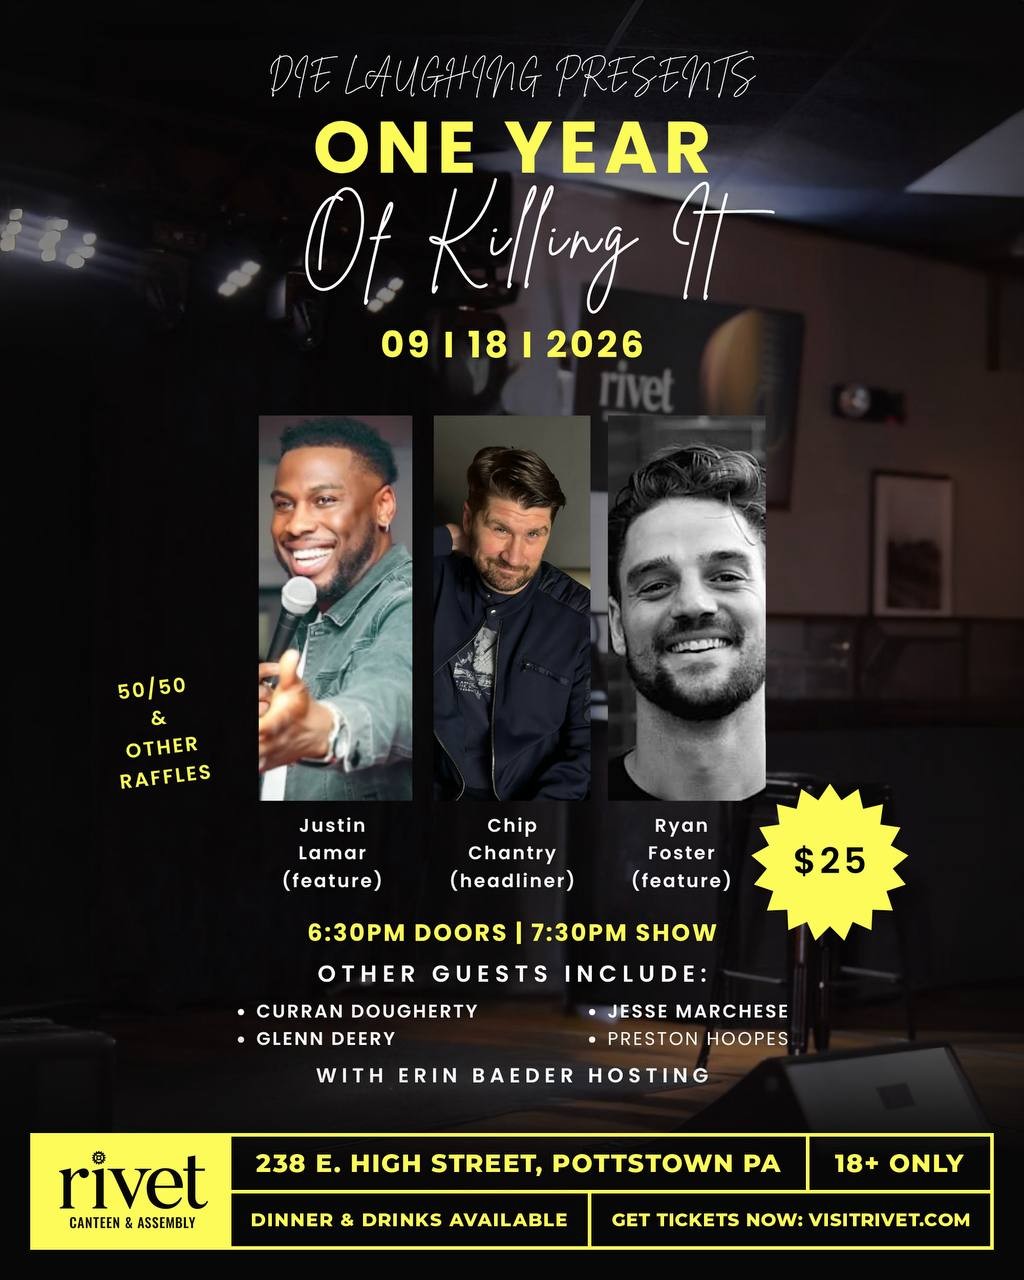
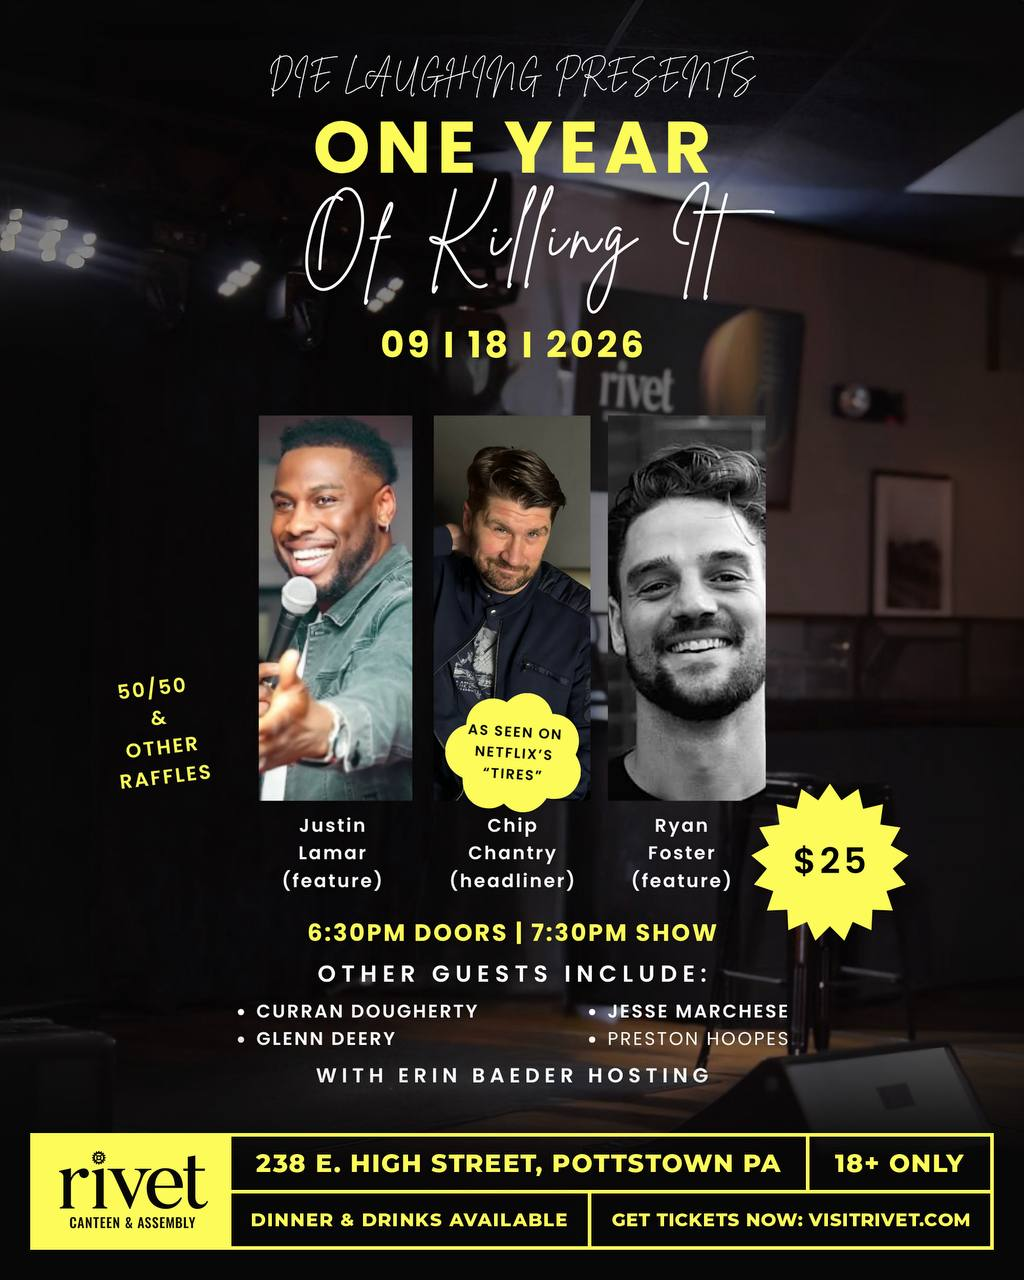
Update Sep 18/19 flyers; add Oct-Dec 2026 shows
- Refresh One Year Of Killing It (9/18) and Still Killing It (9/19) flyers
- Add Barely Breathing (10/16), Party Night (10/31),
  Thanksgiving Eve Open Mic (11/25), and Sleighin' It (12/18) with ticket links

Claude-Session: https://claude.ai/code/session_01T86ai1syM6TYP8s9Tn2fkk

Changed region(s): [[0.4375, 0.5312, 0.5938, 0.6562]]

diff --git a/home.html b/home.html
@@ -664,7 +664,7 @@
           <img
             src="flyer-one-year-killing-it.jpg"
             alt="Die Laughing Presents: One Year Of Killing It - September 18, 2026 at Rivet, Pottstown PA"
-            width="1200" height="1500"
+            width="1024" height="1280"
             class="w-full max-w-md mx-auto h-auto rounded-2xl shadow-2xl cursor-pointer hover:scale-105 transition ring-2 ring-white/10"
             loading="lazy" decoding="async"
             onclick="openModal(this.src, 'One Year Of Killing It - September 18, 2026')">
@@ -684,7 +684,7 @@
           <img
             src="flyer-still-killing-it.jpg"
             alt="Die Laughing's Still Killing It! - September 19, 2026 at Hotel Fiesole, Collegeville PA"
-            width="1200" height="1600"
+            width="960" height="1280"
             class="w-full max-w-md mx-auto h-auto rounded-2xl shadow-2xl cursor-pointer hover:scale-105 transition ring-2 ring-white/10"
             loading="lazy" decoding="async"
             onclick="openModal(this.src, 'Still Killing It! - September 19, 2026')">
@@ -692,6 +692,26 @@
              target="_blank" rel="noopener noreferrer"
              class="tap mt-6 inline-block bg-gradient-to-r from-orange-500 to-pink-500 hover:from-orange-400 hover:to-pink-400 text-white font-bold py-4 px-10 rounded-full text-base transition focus-ring shadow-lg btn-glow">
             Get Tickets • Sep 19th
+          </a>
+        </div>
+      </div>
+    </div>
+
+    <!-- OCT 16TH SHOW - Barely Breathing (Sarcoidosis benefit) at Rivet, Pottstown -->
+    <div class="swiper-slide show-card glass rounded-2xl p-6 sm:p-8 card-hover" data-show-date="2026-10-16">
+      <div class="flex justify-center">
+        <div class="text-center">
+          <img
+            src="flyer-barely-breathing-oct16.jpg"
+            alt="Die Laughing Presents: Barely Breathing - October 16, 2026 at Rivet, Pottstown PA"
+            width="1024" height="1280"
+            class="w-full max-w-md mx-auto h-auto rounded-2xl shadow-2xl cursor-pointer hover:scale-105 transition ring-2 ring-white/10"
+            loading="lazy" decoding="async"
+            onclick="openModal(this.src, 'Barely Breathing - October 16, 2026')">
+          <a href="https://www.eventbrite.com/e/1992928757562?aff=oddtdtcreator"
+             target="_blank" rel="noopener noreferrer"
+             class="tap mt-6 inline-block bg-gradient-to-r from-orange-500 to-pink-500 hover:from-orange-400 hover:to-pink-400 text-white font-bold py-4 px-10 rounded-full text-base transition focus-ring shadow-lg btn-glow">
+            Get Tickets • Oct 16th
           </a>
         </div>
       </div>
@@ -712,6 +732,66 @@
              target="_blank" rel="noopener noreferrer"
              class="tap mt-6 inline-block bg-gradient-to-r from-orange-500 to-pink-500 hover:from-orange-400 hover:to-pink-400 text-white font-bold py-4 px-10 rounded-full text-base transition focus-ring shadow-lg btn-glow">
             Get Tickets • Oct 17th
+          </a>
+        </div>
+      </div>
+    </div>
+
+    <!-- OCT 31ST SHOW - Die Laughing Party Night (Halloween) at Rivet, Pottstown -->
+    <div class="swiper-slide show-card glass rounded-2xl p-6 sm:p-8 card-hover" data-show-date="2026-10-31">
+      <div class="flex justify-center">
+        <div class="text-center">
+          <img
+            src="flyer-party-night-oct31.jpg"
+            alt="Die Laughing Party Night - Halloween, October 31, 2026 at Rivet, Pottstown PA"
+            width="1024" height="1280"
+            class="w-full max-w-md mx-auto h-auto rounded-2xl shadow-2xl cursor-pointer hover:scale-105 transition ring-2 ring-white/10"
+            loading="lazy" decoding="async"
+            onclick="openModal(this.src, 'Die Laughing Party Night - October 31, 2026')">
+          <a href="https://www.eventbrite.com/e/1995193025047?aff=oddtdtcreator"
+             target="_blank" rel="noopener noreferrer"
+             class="tap mt-6 inline-block bg-gradient-to-r from-orange-500 to-pink-500 hover:from-orange-400 hover:to-pink-400 text-white font-bold py-4 px-10 rounded-full text-base transition focus-ring shadow-lg btn-glow">
+            Get Tickets • Oct 31st
+          </a>
+        </div>
+      </div>
+    </div>
+
+    <!-- NOV 25TH SHOW - Thanksgiving Eve Open Mic at Rivet, Pottstown -->
+    <div class="swiper-slide show-card glass rounded-2xl p-6 sm:p-8 card-hover" data-show-date="2026-11-25">
+      <div class="flex justify-center">
+        <div class="text-center">
+          <img
+            src="flyer-thanksgiving-eve-open-mic-nov25.jpg"
+            alt="Die Laughing's Thanksgiving Eve Open Mic - November 25, 2026 at Rivet, Pottstown PA"
+            width="1024" height="1280"
+            class="w-full max-w-md mx-auto h-auto rounded-2xl shadow-2xl cursor-pointer hover:scale-105 transition ring-2 ring-white/10"
+            loading="lazy" decoding="async"
+            onclick="openModal(this.src, 'Thanksgiving Eve Open Mic - November 25, 2026')">
+          <a href="https://www.eventbrite.com/e/1995196342971?aff=oddtdtcreator"
+             target="_blank" rel="noopener noreferrer"
+             class="tap mt-6 inline-block bg-gradient-to-r from-orange-500 to-pink-500 hover:from-orange-400 hover:to-pink-400 text-white font-bold py-4 px-10 rounded-full text-base transition focus-ring shadow-lg btn-glow">
+            Get Tickets • Nov 25th
+          </a>
+        </div>
+      </div>
+    </div>
+
+    <!-- DEC 18TH SHOW - Die Laughing: Sleighin' It at Rivet, Pottstown -->
+    <div class="swiper-slide show-card glass rounded-2xl p-6 sm:p-8 card-hover" data-show-date="2026-12-18">
+      <div class="flex justify-center">
+        <div class="text-center">
+          <img
+            src="flyer-sleighin-it-dec18.jpg"
+            alt="Die Laughing: Sleighin' It - December 18, 2026 at Rivet, Pottstown PA"
+            width="1024" height="1280"
+            class="w-full max-w-md mx-auto h-auto rounded-2xl shadow-2xl cursor-pointer hover:scale-105 transition ring-2 ring-white/10"
+            loading="lazy" decoding="async"
+            onclick="openModal(this.src, 'Die Laughing: Sleighin It - December 18, 2026')">
+          <a href="https://www.eventbrite.com/e/1995040237054?aff=oddtdtcreator"
+             target="_blank" rel="noopener noreferrer"
+             class="tap mt-6 inline-block bg-gradient-to-r from-orange-500 to-pink-500 hover:from-orange-400 hover:to-pink-400 text-white font-bold py-4 px-10 rounded-full text-base transition focus-ring shadow-lg btn-glow">
+            Get Tickets • Dec 18th
           </a>
         </div>
       </div>
